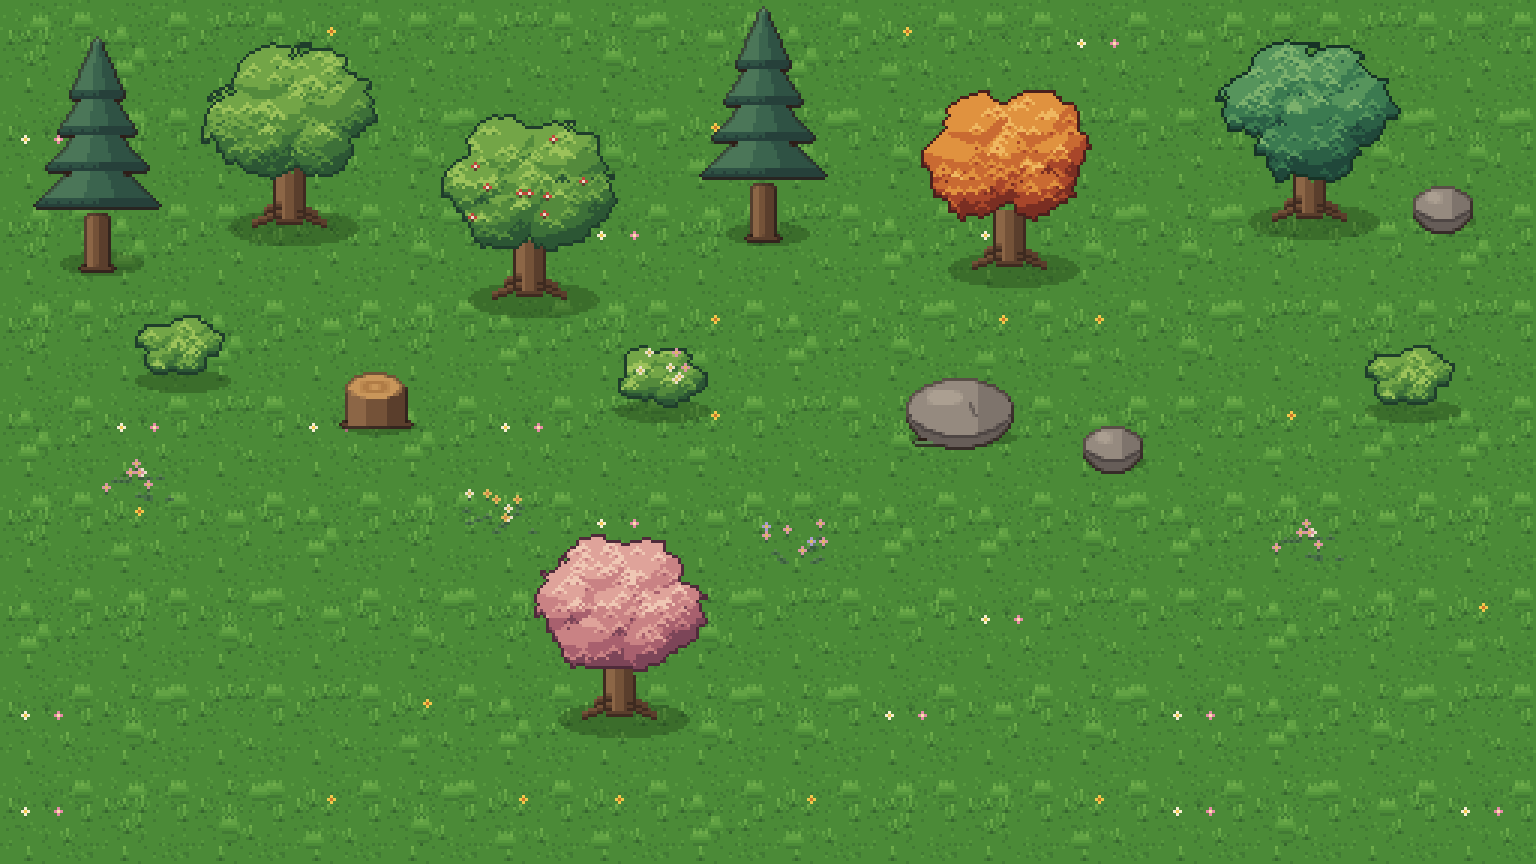
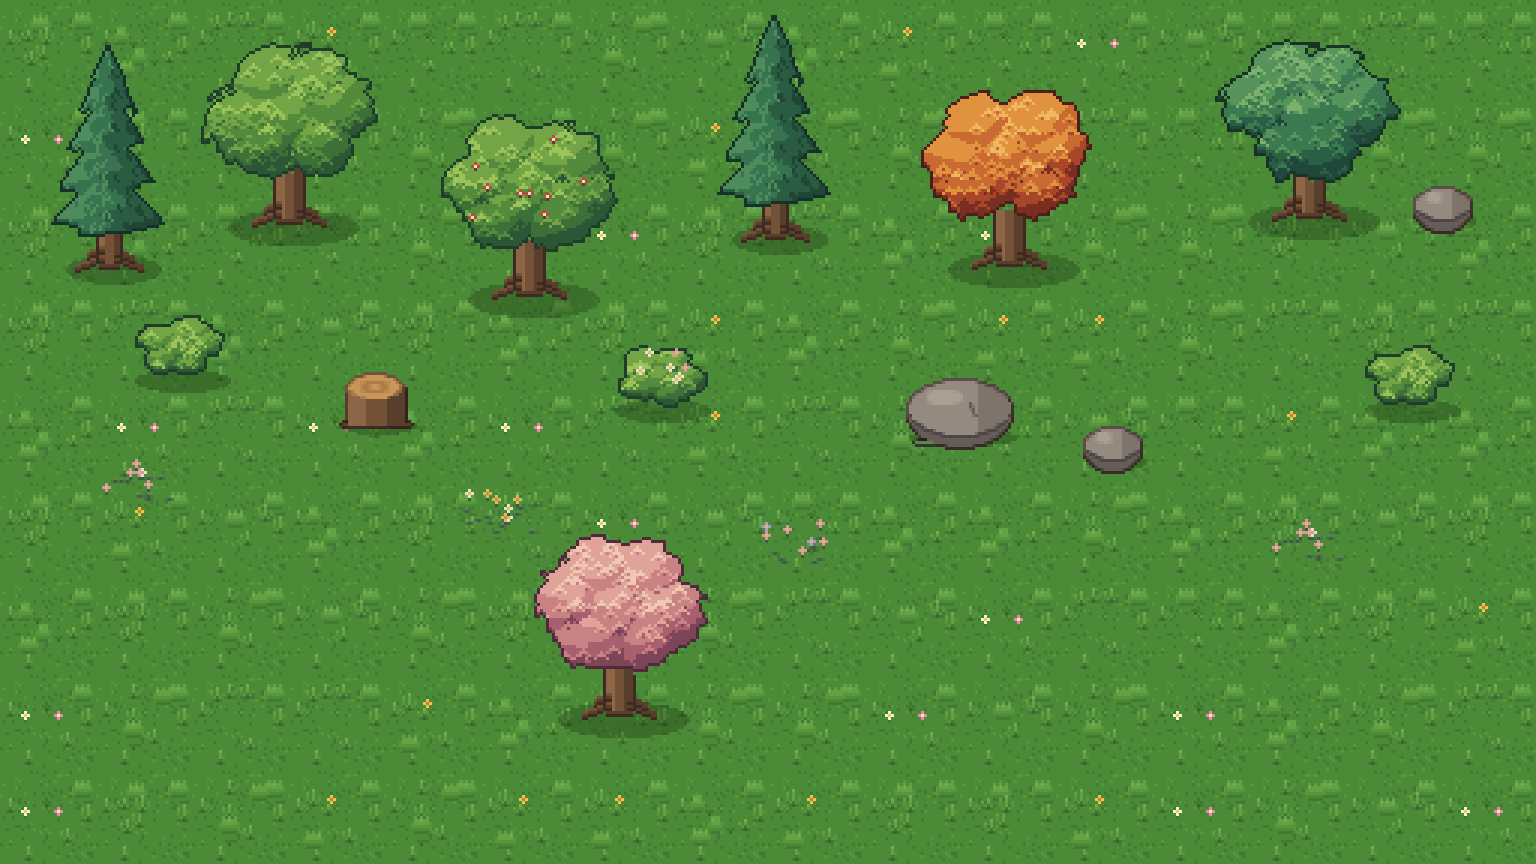
Pine: redraw in the leafy tree style with irregular drooping tiers and roots
Claude-Session: https://claude.ai/code/session_01UfpJh2yGrDMaNfv5mQuco1

Changed region(s): [[0.0, 0.0312, 0.125, 0.3438], [0.4375, 0.0, 0.5625, 0.3125]]

diff --git a/tools/pixel-art/nature.py b/tools/pixel-art/nature.py
@@ -140,23 +140,38 @@ def round_tree(seed=1, fruit=None, pal='green'):
                 for dx, dy, col in ((0, -1, fruit), (-1, 0, fruit), (0, 0, CREAM), (1, 0, fruit), (0, 1, BARK[1])): c.put(x + dx, y + dy, col)
     return finish(c, outline=False)
 
-def pine():
-    W, H = 48, 84; c = Canvas(W, H); cx = 24
-    shadow(c, cx + 2, 78, 14, 4)
-    trunk(c, cx, 62, 80, 3)
-    for i, (y, w) in enumerate(((52, 20), (40, 16), (28, 12), (16, 8))):         # katlar, alttan üste
-        for yy in range(y - 12, y + 6):
-            t = (yy - (y - 12)) / 18
-            half = int(w * t + 1)
-            for x in range(cx - half, cx + half + 1):
-                s = (x - cx) / max(1, half)
-                col = PINE[3] if s < -.25 else PINE[1] if s > .35 else PINE[2]
-                if yy >= y + 4: col = PINE[0] if s > 0 else PINE[1]
-                c.put(x, yy, col)
-        for x in range(cx - w, cx + w + 1): c.put(x, y + 6, PINE[0])              # kat alt çizgisi
-        for k in range(-w + 3, w - 2, 4): c.put(cx + k, y + 5, PINE[0])           # dişli kenar
-    c.put(cx, 3, PINE[4]); c.put(cx, 4, PINE[3])
-    return finish(c)
+def pine(seed=11):
+    """Çam: alttan üste daralan, kenarları iğne iğne sarkan katlar; koyu yeşil kontur, kökler. Yeni ağaç tarzında."""
+    W, H = 56, 88; c = Canvas(W, H); cx = 28
+    pal = [hx(x) for x in ('#16302a', '#1f4637', '#2a5c42', '#387350', '#4f8c5c', '#6fa66c')]
+    shadow(c, cx + 2, 80, 16, 5)
+    roots_trunk(c, cx, 66, 78, 3)
+    inside = {}
+    tiers = ((68, 23), (54, 19), (41, 15), (29, 11), (18, 7))                 # (alt kenar y, yarı genişlik)
+    for i, (yb, hw) in enumerate(tiers):
+        top = yb - 22 if i < len(tiers) - 1 else 4
+        for y in range(top, yb + 1):
+            t = (y - top) / max(1, yb - top)
+            half = hw * t ** .85
+            for x in range(int(cx - half) - 1, int(cx + half) + 2):
+                d = abs(x + .5 - cx)
+                edge = yb - int(_h(x // 3, i, seed) * 4) - int(3 * (d / max(1, hw)) ** 2)   # sarkan iğne uçları (düzensiz)
+                if d <= half and y <= edge: inside[(x, y)] = (i, t, (x + .5 - cx) / max(1, hw))
+    for (x, y), (i, t, sx) in inside.items():
+        l = -.9 * sx + .6 * (1 - t) - .25 + (_h(x // 2, y, seed) - .5) * .35
+        tone = 1 if l < -.6 else 2 if l < -.1 else 3 if l < .35 else 4
+        if (x, y + 1) not in inside or (x, y + 2) not in inside: tone = min(tone, 2)
+        c.put(x, y, pal[tone])
+    rng = random.Random(seed)
+    for (x, y) in rng.sample(list(inside), len(inside) // 14):                # iğne çizgileri (aşağı eğik)
+        i, t, sx = inside[(x, y)]
+        col = pal[4] if sx < .1 else pal[1]
+        for k in range(3):
+            p = (x + (k if sx > 0 else -k) // 2, y + k)
+            if p in inside: c.put(p[0], p[1], col)
+    for (x, y) in inside:
+        if any((x + dx, y + dy) not in inside for dx, dy in ((1, 0), (-1, 0), (0, 1), (0, -1))): c.put(x, y, pal[0])
+    return finish(c, outline=False)
 
 def bush(seed=3, flowers=None):
     W, H = 40, 32; c = Canvas(W, H); cx = 20
